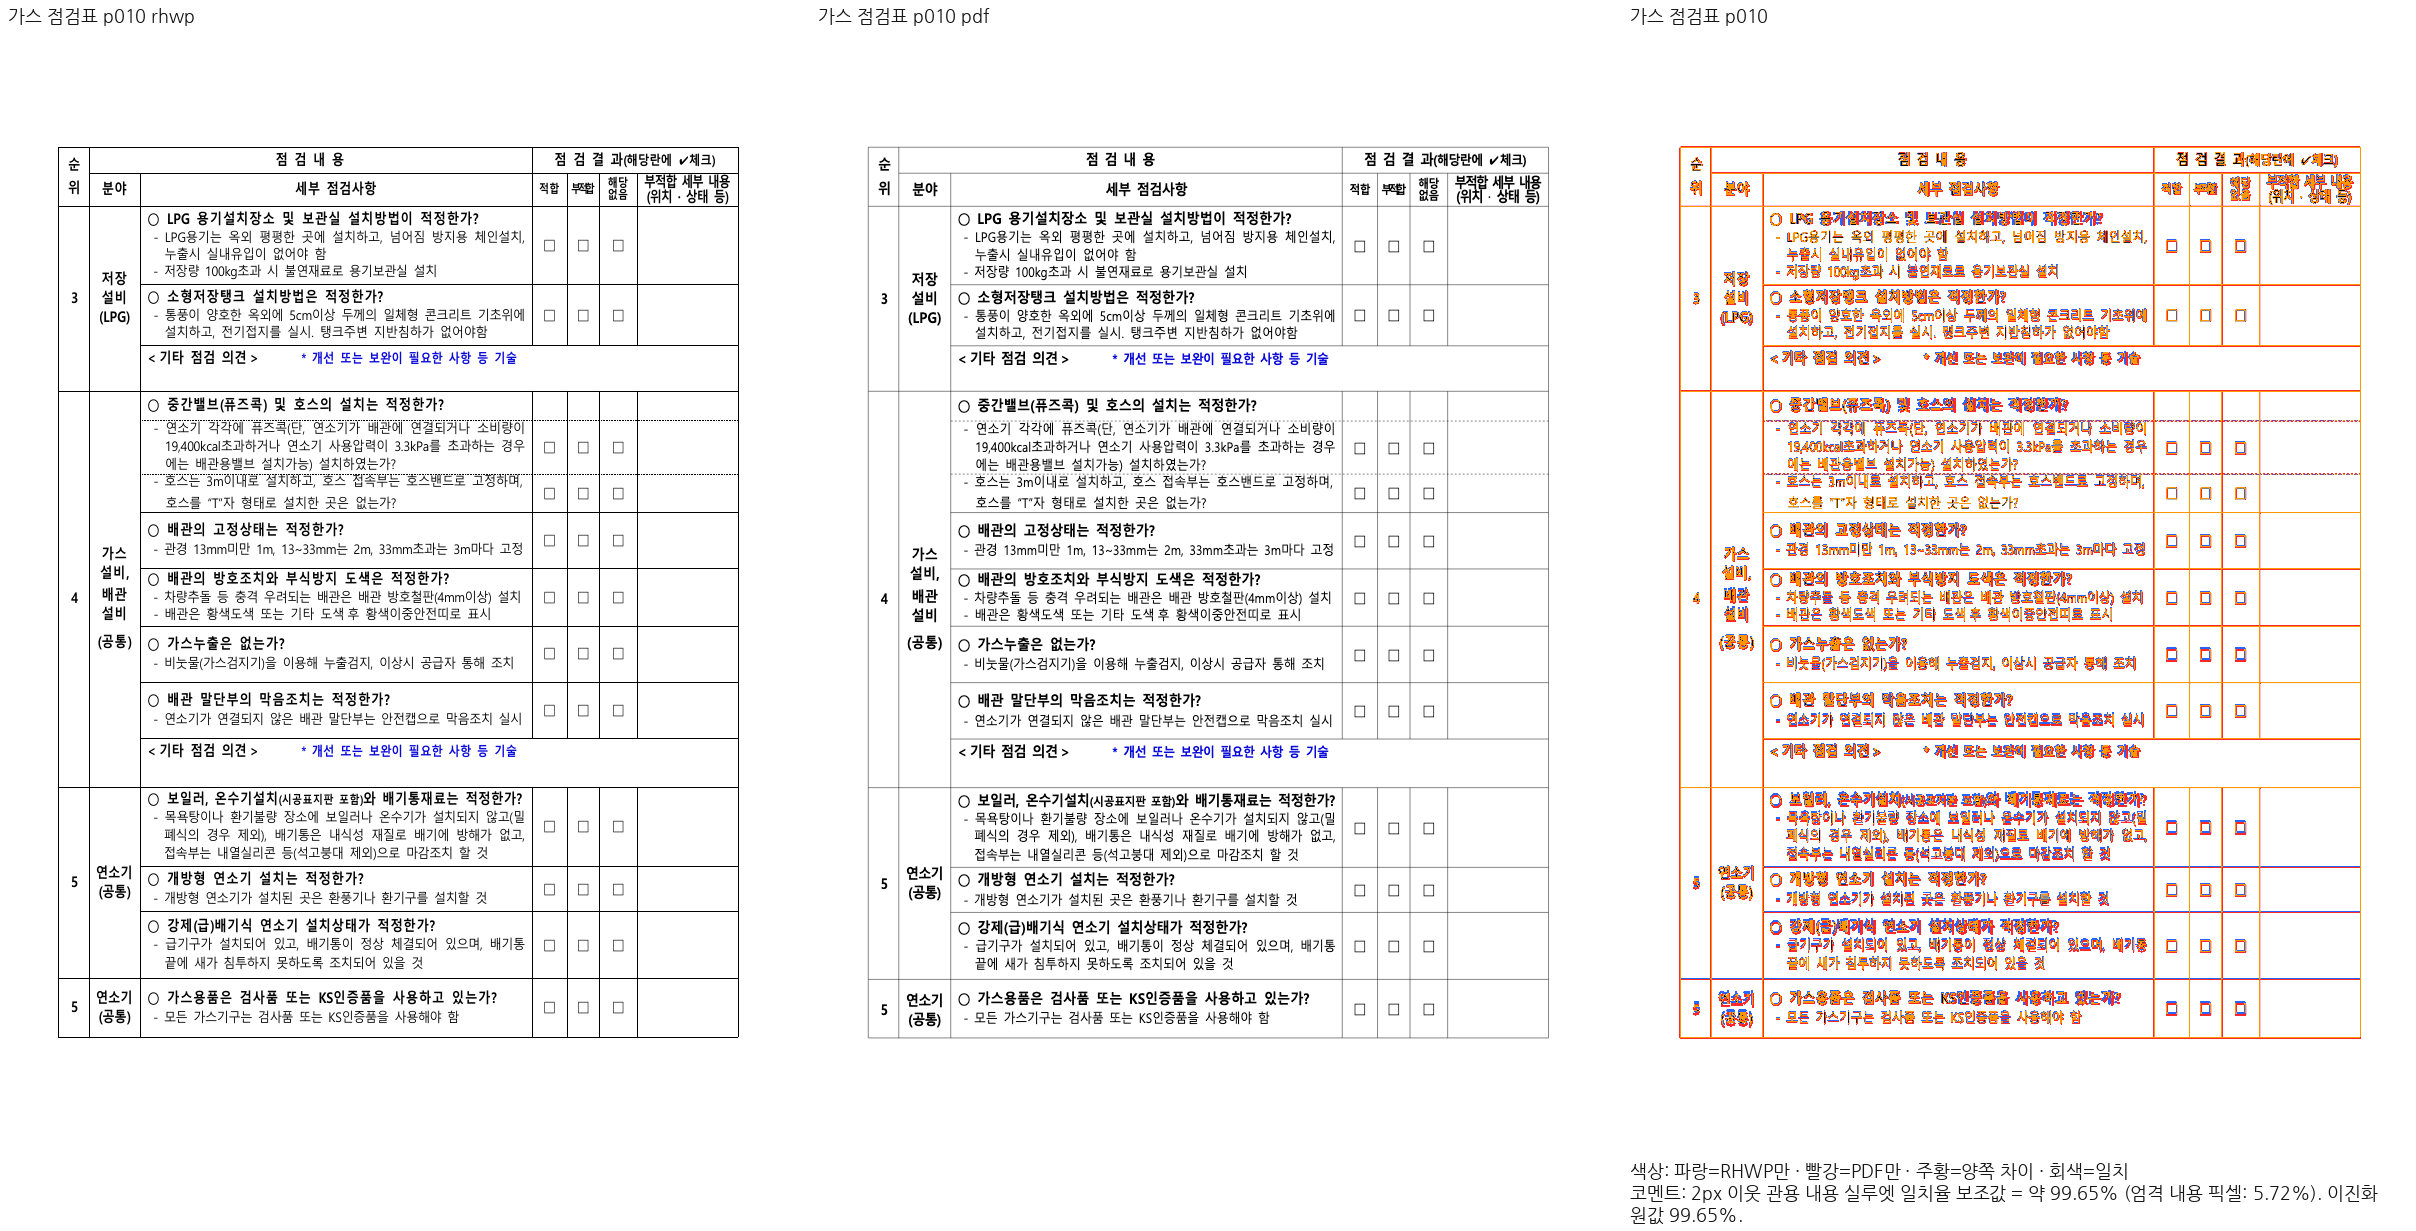
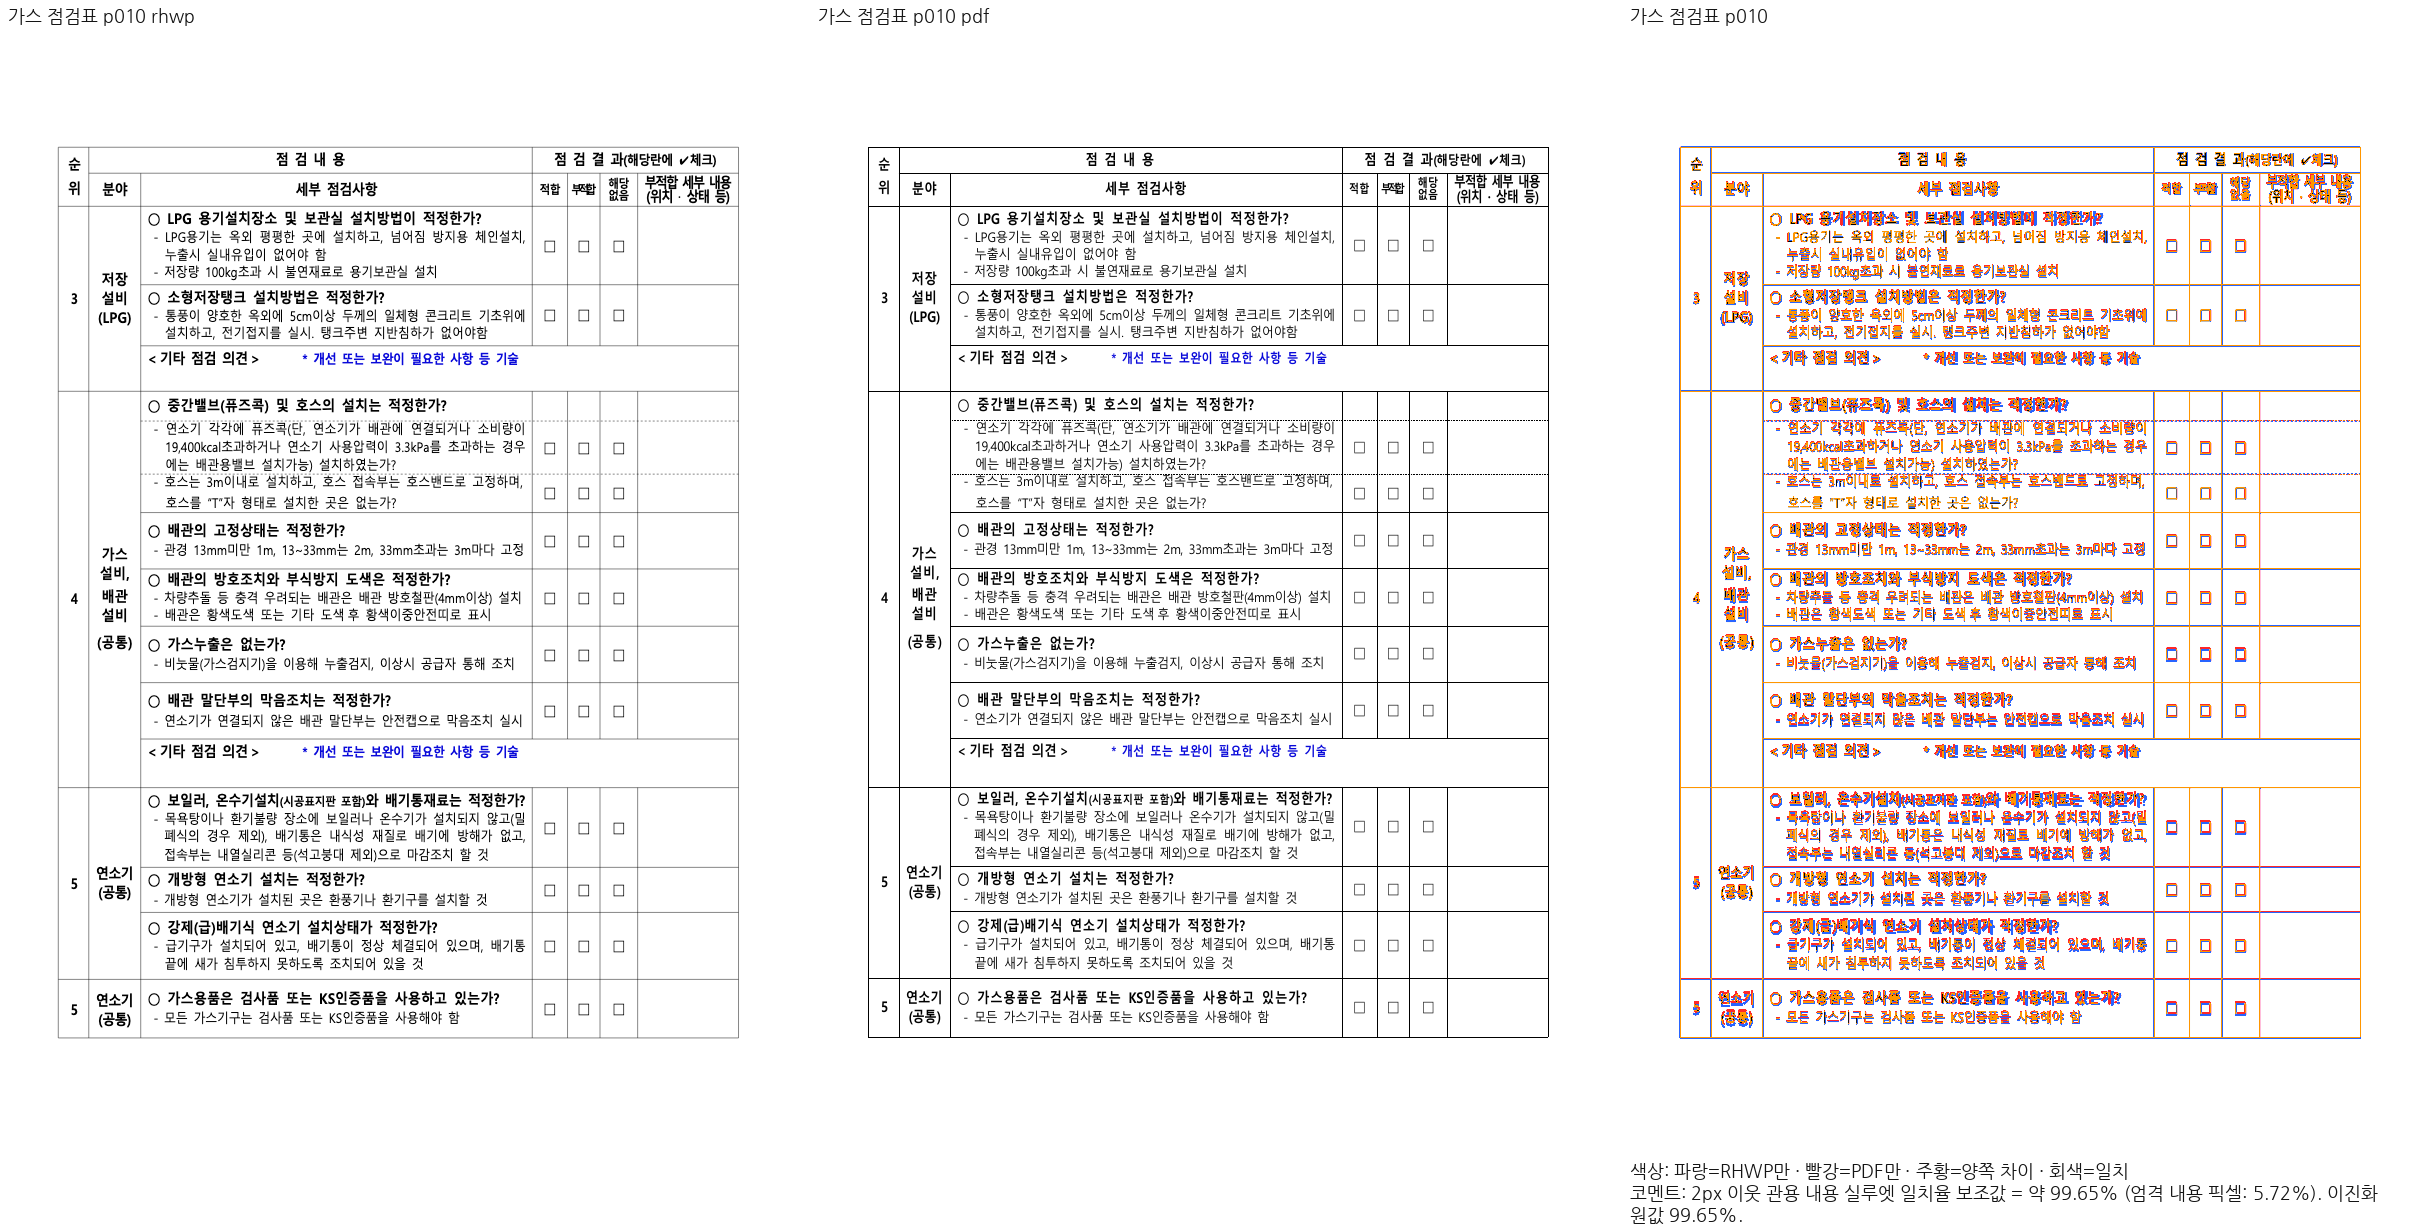
fix: 소방 표의 시작 컷과 병합 잔여 높이 보존

diff --git a/src/renderer/layout/table_layout.rs b/src/renderer/layout/table_layout.rs
@@ -24779,6 +24779,7 @@ impl LayoutEngine {
         prior_space: &[(usize, f64)],
         accepted_rows: &[(usize, f64)],
         styles: &ResolvedStyleSet,
+        cut_minimum_height: Option<f64>,
     ) -> Option<f64> {
         let profile = self.profile.get();
         if !(profile.hwp5_stored_pagination_layout() || profile.hwpx_stored_layout())
@@ -24814,7 +24815,10 @@ impl LayoutEngine {
             return None;
         }
         let spacing = hwpunit_to_px(table.cell_spacing as i32, self.dpi);
-        let mut height = self.row_cut_content_height(table, row, &[], &[], styles);
+        // 호출자가 현재 내용 컷과 원본 잔여 상자로 확정한 행 하한이다.
+        // 원래 행 전체를 다시 재면 앞 조각에서 소비한 글줄이 중복 예약된다.
+        let mut height = cut_minimum_height
+            .unwrap_or_else(|| self.row_cut_content_height(table, row, &[], &[], styles));
         for (index, cell) in ending {
             if !self.cell_has_original_physical_minimum(cell) {
                 return None;

diff --git a/src/renderer/typeset/table/scan/row.rs b/src/renderer/typeset/table/scan/row.rs
@@ -49,6 +49,10 @@ impl RowScanQuery<'_> {
             styles,
             ..
         } = *rows;
+        // 시작 컷이 있는 행은 이미 소비한 내용을 다시 예약하지 않는다.
+        // 완전 행의 선언 높이는 병합 최소에 분배되어 있으므로 기존처럼
+        // 내용 하한만 사용하고, 병합 원장으로 남은 물리 높이를 정한다.
+        let cut_minimum_height = (r == cursor_row && !start_cut.is_empty()).then_some(height);
         let height = layout_engine
             .rowspan_remaining_physical_row_height(
                 table,
@@ -57,6 +61,7 @@ impl RowScanQuery<'_> {
                 rowspan_physical_space,
                 accepted_rows,
                 styles,
+                cut_minimum_height,
             )
             .unwrap_or(height);
         layout_engine

diff --git a/src/renderer/typeset/table/continuation/fragment/emit.rs b/src/renderer/typeset/table/continuation/fragment/emit.rs
@@ -111,6 +111,7 @@ impl TypesetEngine {
                         &input.start.rowspan_physical_space,
                         &physical_rows[..index],
                         styles,
+                        Some(height),
                     )
                     .map(|_| (row, height))
             })

diff --git a/mydocs/working/task_m100_7445_stage432_remaining_failures.md b/mydocs/working/task_m100_7445_stage432_remaining_failures.md
@@ -577,3 +577,21 @@ SVG 동일성, fresh manifest·선택 TSV·로그는 ignored `stage441-overlay-p
 ![가스 점검표 10쪽](../pr/assets/issue7445/completed-20261009/stored-anchor-repair/gas5877-p010-v22-review.png)
 
 ![가스 점검표 11쪽](../pr/assets/issue7445/completed-20261009/stored-anchor-repair/gas5877-p011-v22-review.png)
+
+
+## 소방 표의 시작 컷과 병합 잔여 공간 보정 (V24c)
+
+- 원본 가스·소방 점검표의 31쪽 전체를 Native와 실제 Chrome fresh WASM으로 비교했다. 두 경로 모두 **최저 97.06444%, 미달 0쪽, 누락 0쪽**, 독립 한컴 Print와 31/31쪽이다. 전 31쪽 raw SVG와 PNG가 Native/fresh 사이에서 모두 같다. 최종 전체 회귀 검증의 완료를 뜻하지 않는다.
+- 소방 표의 62행은 앞 조각에서 첫 유닛을 이미 소비했다. 이어지는 조각의 높이 조회가 원래 행 전체 내용을 다시 측정하면서 그 유닛을 중복 예약했다. 시작 컷이 있는 행은 현재 컷과 잔여 물리 상자로 이미 정한 하한을 사용하고, 완전 행은 기존 내용 하한과 원본 병합 높이 원장으로 계산한다. 완전 행의 선언 높이를 내용 하한으로 다시 넣었던 초안은 15쪽을 84.97219%로 낮춰 폐기했다.
+- 원래 본문 프레임·여백·셀 높이·내용 컷을 유지한다. 마지막 행을 남은 용지에 강제로 맞추거나 좌표/문서명 분기를 넣지 않았다. 반복 프레임을 바꾸던 두 초안도 정상 14·15쪽을 훼손해 폐기했다. 전체 내용 재측정은 해당 병합 계약이 성립할 때만 수행해 일반 행에 중복 조회를 추가하지 않았다.
+- 15쪽 **99.51767%**, 17쪽 **99.33011%**, 18쪽 **100%**, 19쪽 **97.06444%**, 20쪽 **100%**, 21쪽 **99.97361%**, 22쪽 **100%**다. 기존 미달 17·18쪽과 현재 브랜치의 신규 미달 19~22쪽을 모두 복구했다. 17·19·22쪽 review를 직접 확인해 이어받은 문장, 표의 내용/행 소속, 뒤쪽 라벨과 마지막 체크 상자가 유지됨을 확인했다. Print와의 엄격 픽셀 동일성을 주장하지 않는다.
+- 관련 기존 정식 nextest는 run `e4e6f0a3-fadb-47dd-878c-1a32687ec4df`, **26 PASS / 0 FAIL / 592 skip**, 7.754초, threads 8, exit 0이다. 기대값·baseline·공차를 바꾸지 않았으며 새 검사 함수도 없다. 정식 실행 뒤 rustfmt가 같은 표현식의 줄바꿈만 정리했다. Native/정식 후보와 formatted WASM 소스 해시를 구분해서 보존하며 최종 전체 검증은 아직 남아 있다.
+- 정상 대조 13종 356쪽 Native SVG는 V22b와 모두 같다. 설치 글꼴 706개의 해시도 그대로다. Native에서는 변경 6쪽을 새로 캡처하고 raw SVG·글꼴·PDF·96dpi가 같은 25쪽의 raster를 재사용했다. fresh WASM은 31쪽 모두 새로 캡처했다. 동시 캡처 최대 8개, 재시도 0이며 Mac locked `--no-opt` 빌드 종료 0이다. Docker 최적화 빌드 통과로 표시하지 않는다.
+- review 생성 호출에서 PDF/Native 입력 순서가 거꾸로 전달되어 라벨과 빨강/파랑 설명이 뒤바뀐 사실도 확인했다. 비교 도구는 수정하지 않고 호출 순서를 바로잡았다. 10·11쪽 기존 대표 PNG와 이번 17·19·22쪽 PNG를 올바른 순서로 재생성했다. 원래 raster와 TSV 입력/수치는 변하지 않았고 잘못된 중간 패널은 ignored output에 보존했다.
+- 원본 전체 후속 #7803의 시각 완료 근거는 확보했으나 공개 완료 보고·이슈 종료는 아직 하지 않았다. 현재 원 실패 27건의 판정은 **22건 해결·부적합 범위 2개 분리·실패 3개 잔존**이다. HWPX 8쪽 중첩 줄, 생물독소 경계 행 소속, #5756 독립 Print 확보/기대값 판정이 남는다. 전체 검증을 마친 뒤 사용자 승인 전까지 PR 게시·push·merge는 수행하지 않는다.
+
+![소방 점검표 17쪽](../pr/assets/issue7445/completed-20261009/stored-anchor-repair/gas5877-p017-v24-review.png)
+
+![소방 점검표 19쪽](../pr/assets/issue7445/completed-20261009/stored-anchor-repair/gas5877-p019-v24-review.png)
+
+![소방 점검표 22쪽](../pr/assets/issue7445/completed-20261009/stored-anchor-repair/gas5877-p022-v24-review.png)
